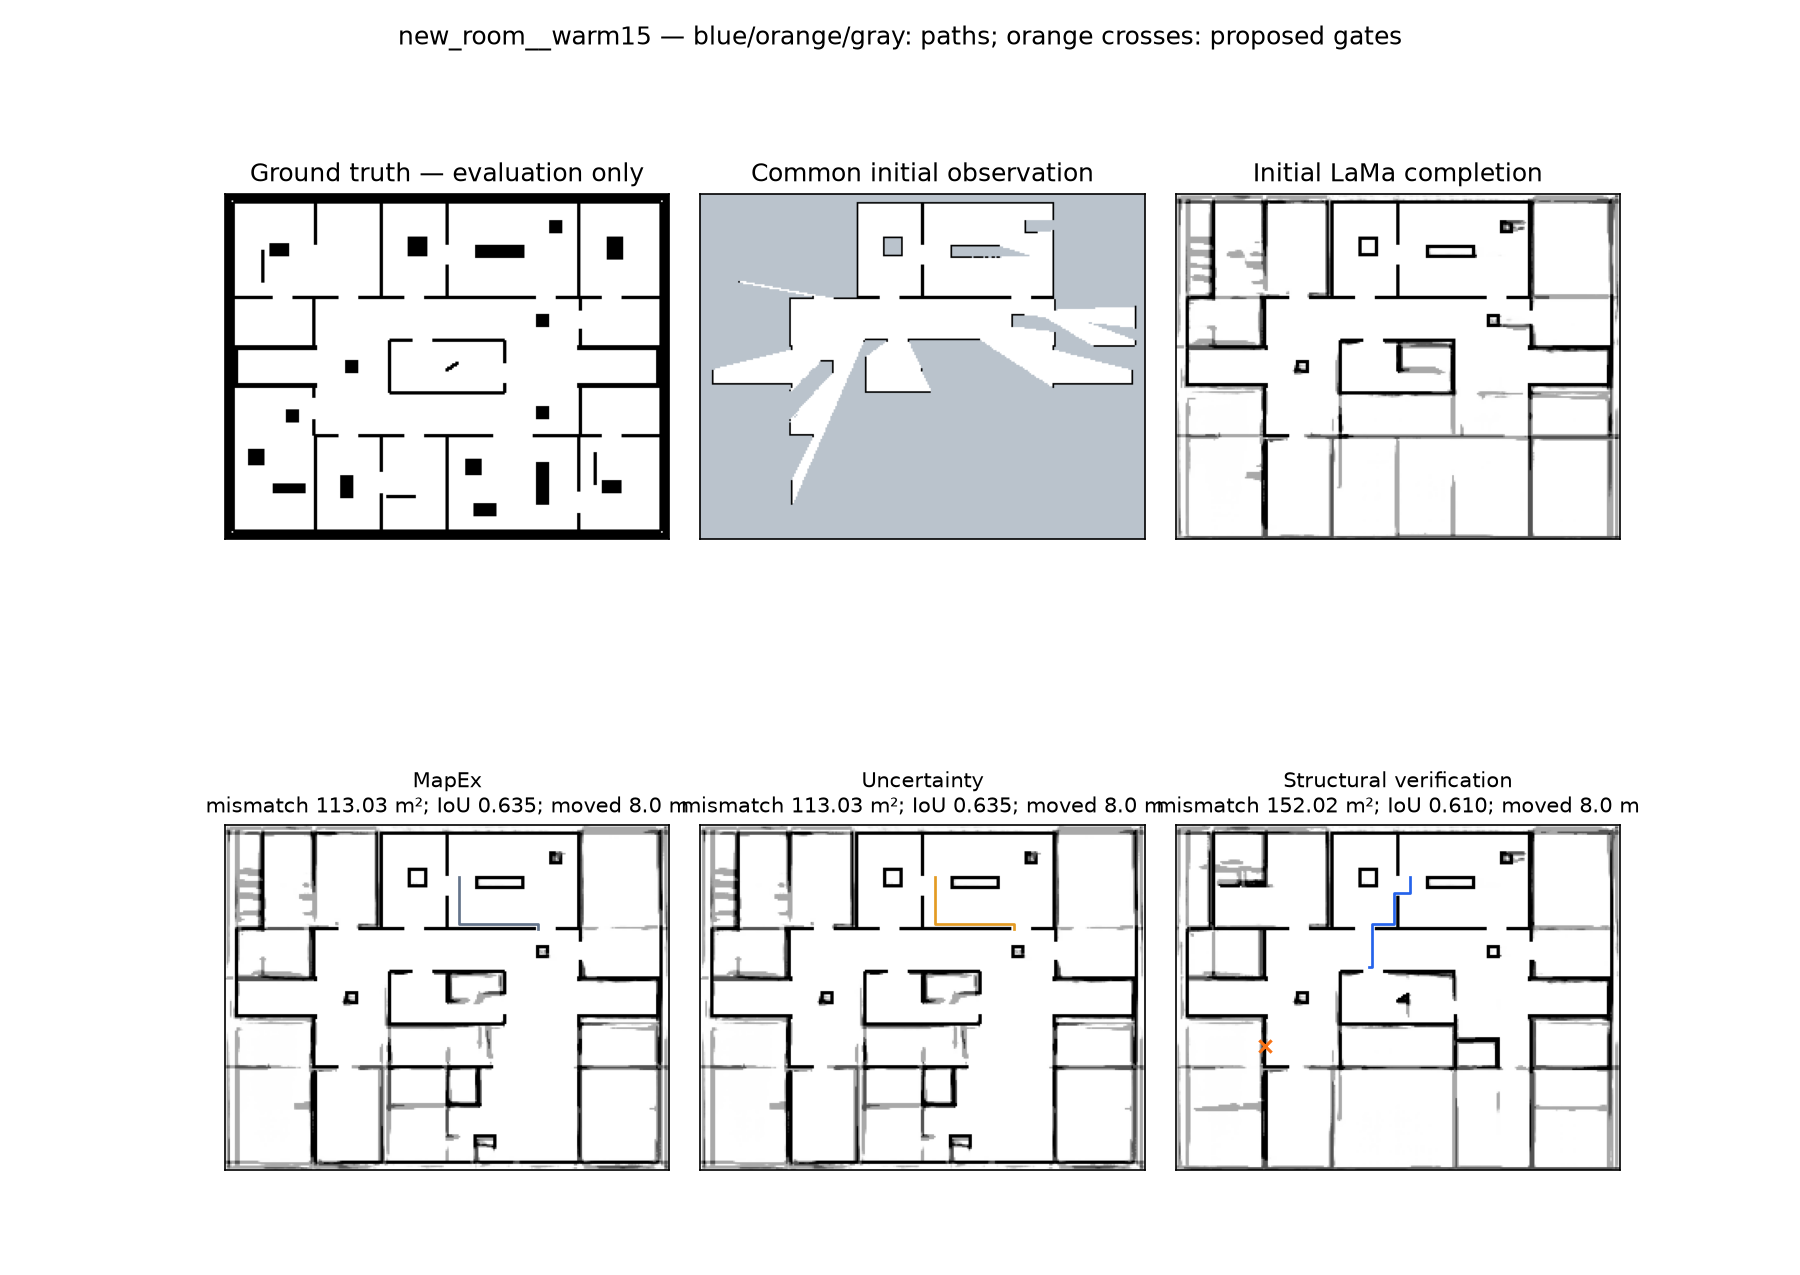
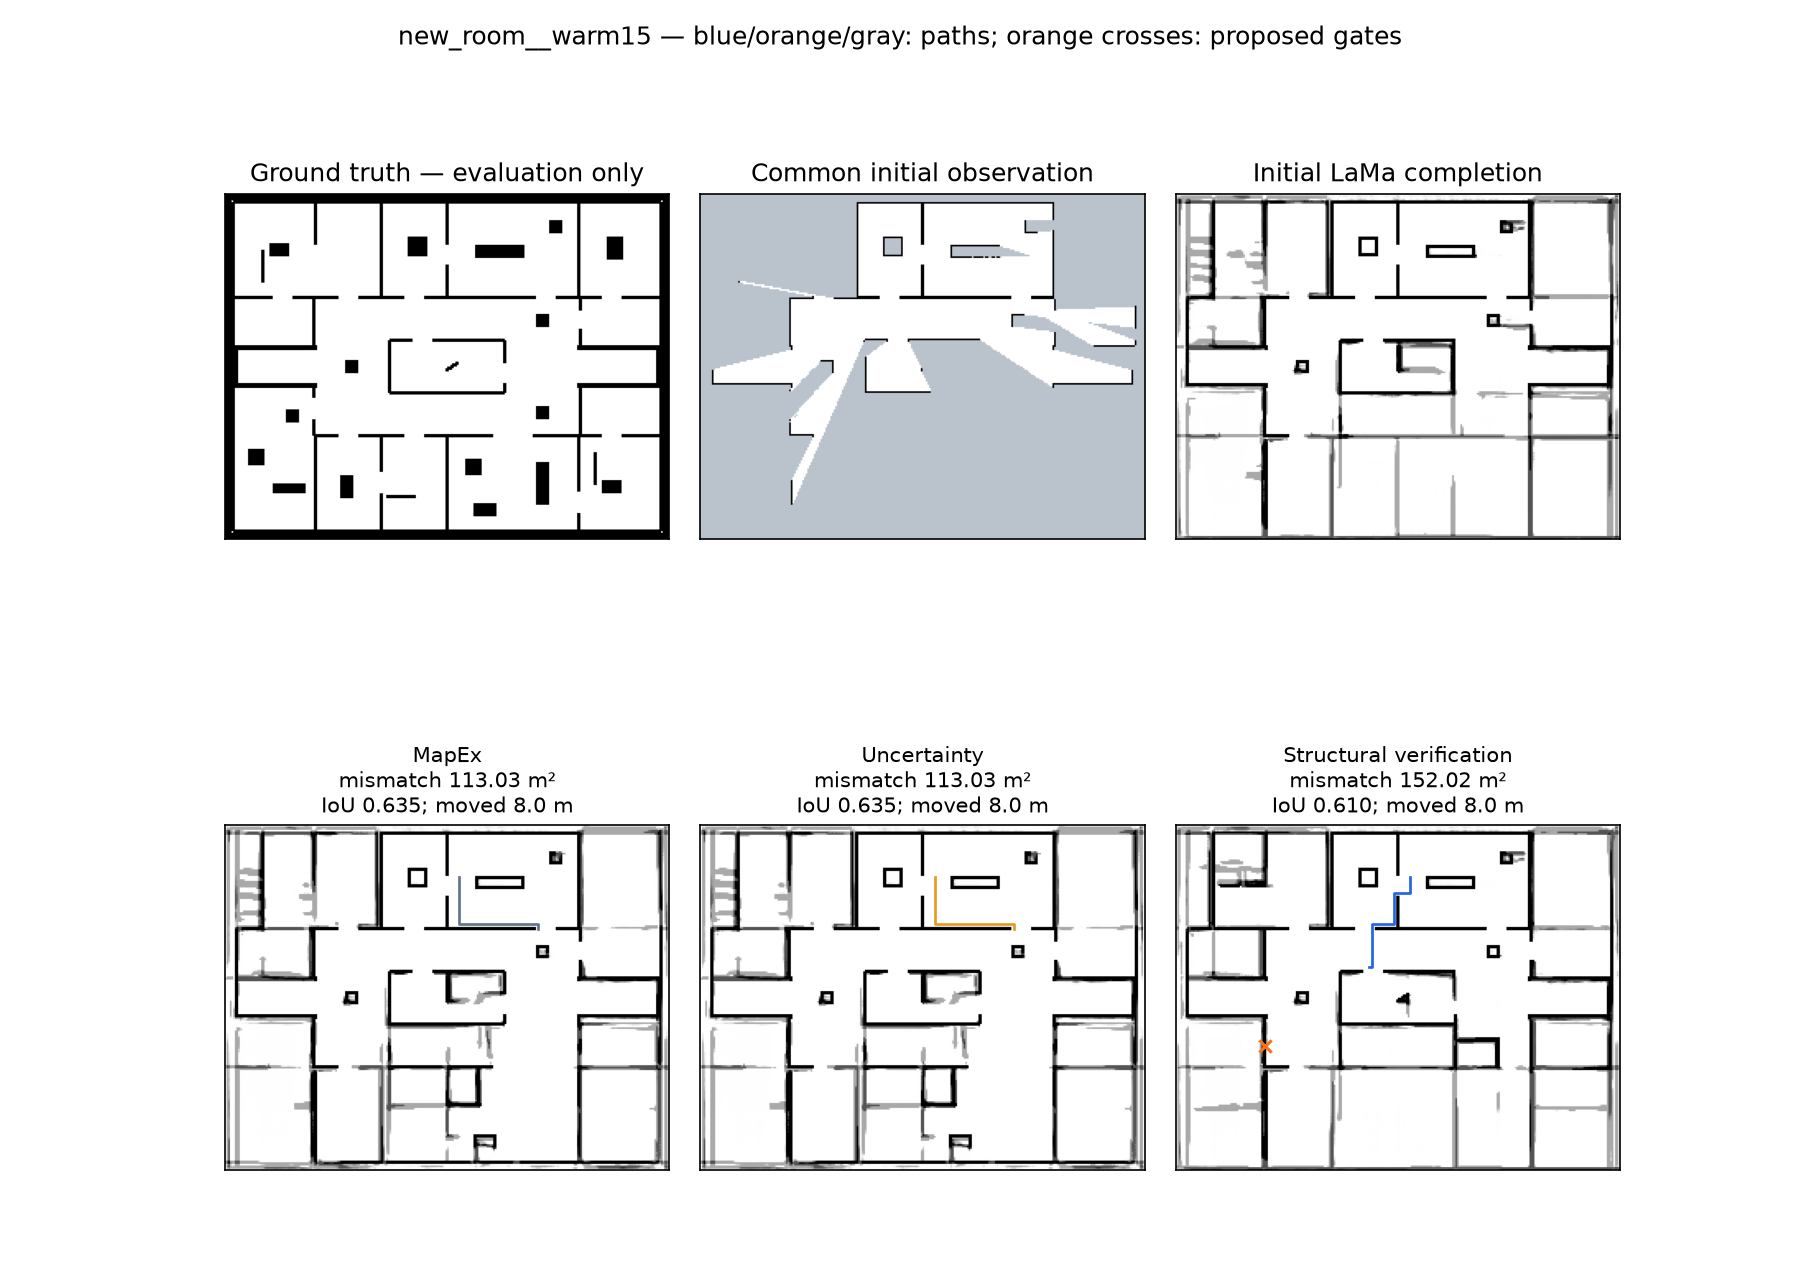
Keep case figure metric labels within their columns

Changed region(s): [[0.1244, 0.5812, 0.9022, 0.6424]]

diff --git a/mapex_lab/pilots/active_verification_2d/render.py b/mapex_lab/pilots/active_verification_2d/render.py
@@ -86,7 +86,7 @@ def case_plot(case, rows, output):
                 r, c = hypothesis["centre"]
                 ax.scatter(c, r, marker="x", color="#f97316", s=35)
         row = next(r for r in rows if r["case"] == case and r["method"] == method)
-        ax.set_title("%s\nmismatch %.2f m²; IoU %.3f; moved %.1f m" %
+        ax.set_title("%s\nmismatch %.2f m²\nIoU %.3f; moved %.1f m" %
                      (LABELS[method], float(row["reachable_mismatch_m2"]), float(row["macro_iou"]), float(row["distance_m"])), fontsize=10)
     for ax in axes.ravel():
         ax.set_xticks([])
